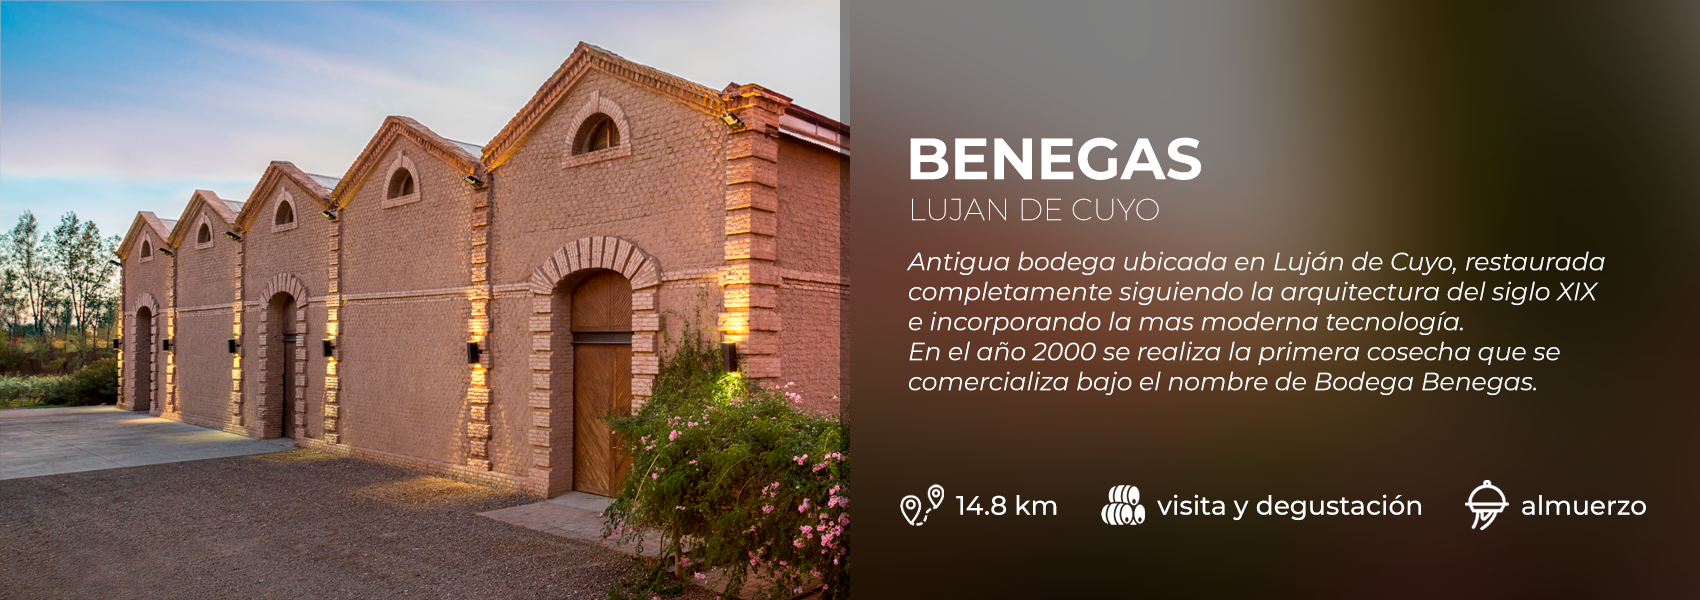
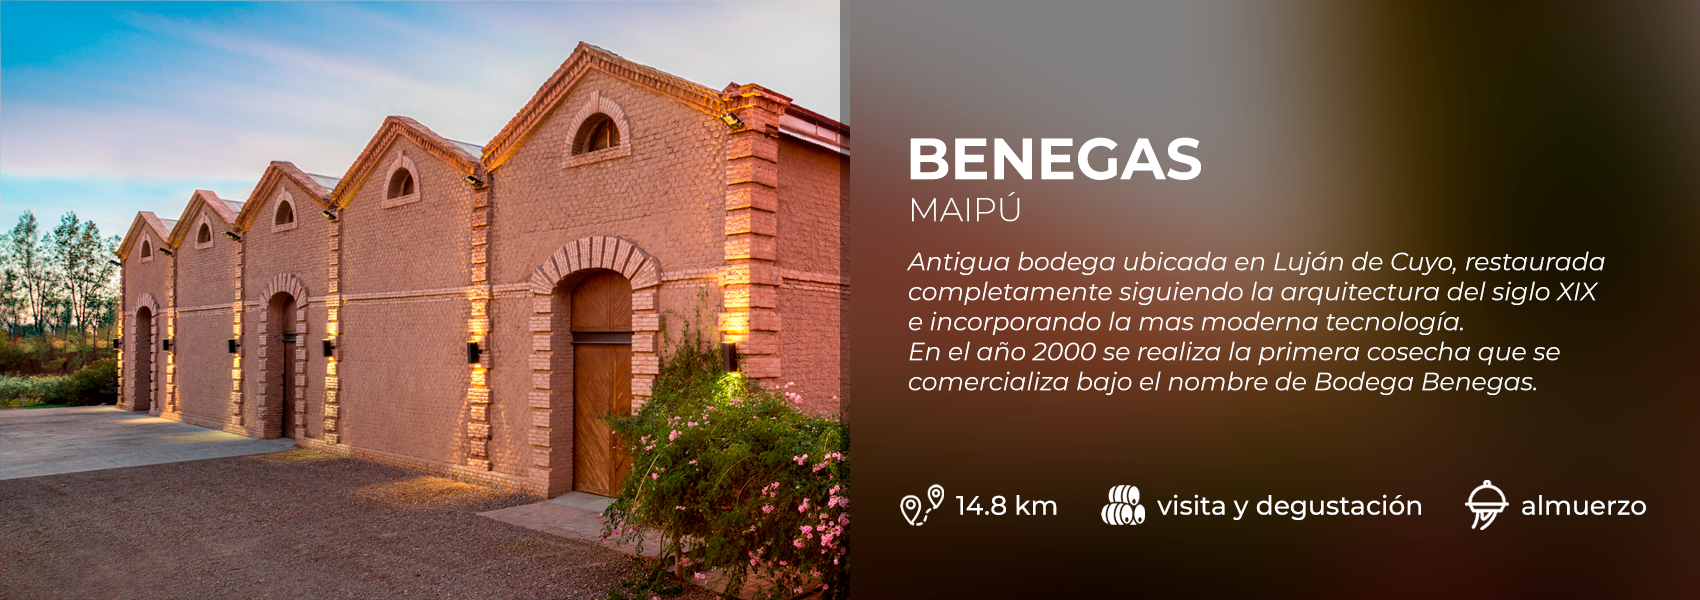
actualizaciones

diff --git a/templates/tips-para-organizar-un-tour-de-bodegas-en-mendoza.html b/templates/tips-para-organizar-un-tour-de-bodegas-en-mendoza.html
@@ -1,0 +1,140 @@
+<!DOCTYPE html>
+<html lang="en">
+<head>
+    <meta charset="UTF-8">
+    <meta name="viewport" content="width=device-width, initial-scale=1.0">
+    <link rel="stylesheet" href="/static/css/styles.css">
+    <link rel="preconnect" href="https://fonts.googleapis.com">
+    <link rel="preconnect" href="https://fonts.gstatic.com" crossorigin>
+    <link href="https://fonts.googleapis.com/css2?family=Montserrat:ital,wght@0,100..900;1,100..900&display=swap"
+        rel="stylesheet">
+    <link href="https://cdn.jsdelivr.net/npm/bootstrap@5.3.3/dist/css/bootstrap.min.css" rel="stylesheet" integrity="sha384-QWTKZyjpPEjISv5WaRU9OFeRpok6YctnYmDr5pNlyT2bRjXh0JMhjY6hW+ALEwIH" crossorigin="anonymous">
+    <title>Experiencias de Vino en Mendoza | Tours de Bodegas y Más</title>
+</head>
+<body>
+  <nav class="navbar navbar-expand-lg bg-body-tertiary montserrat-uniquifier">
+    <div class="container-fluid">
+      <!-- Botón de menú hamburguesa -->
+      <button class="navbar-toggler" type="button" data-bs-toggle="collapse"
+        data-bs-target="#navbarSupportedContent-bodegas" aria-controls="navbarSupportedContent-bodegas"
+        aria-expanded="false" aria-label="Toggle navigation">
+        <span class="navbar-toggler-icon"></span>
+      </button>
+
+      <!-- Logo centrado en móvil -->
+      <a href="/index.html" class="navbar-brand mx-auto d-lg-none">
+        <img class="brand-logo" src="/static/img/logo.png" alt="Logo">
+      </a>
+
+      <!-- Logo para desktop (mantén el logo a la izquierda) -->
+      <a href="/index.html" class="d-none d-lg-block ps-3 position-absolute start-0 top-50 translate-middle-y ps-3">
+        <img class="brand-logo" src="/static/img/logo.png" alt="Logo">
+      </a>
+
+      <!-- Menú centrado (sin considerar el logo) -->
+      <div class="collapse navbar-collapse" id="navbarSupportedContent-bodegas">
+        <ul class="navbar-nav mx-auto mb-2 mb-lg-0 text-center">
+          <li class="nav-item">
+            <a class="nav-link active" aria-current="page" href="/index.html">Inicio</a>
+          </li>
+          <li class="nav-item">
+            <a class="nav-link" href="#seccion-1">Tours</a>
+          </li>
+          <li class="nav-item">
+            <a class="nav-link" href="/templates/nosotros.html">Nosotros</a>
+          </li>
+          <li class="nav-item">
+            <a class="nav-link" href="/templates/bodegas.html">Bodegas</a>
+          </li>
+          <li class="nav-item">
+            <a class="nav-link" href="/templates/blogs.html">Blogs</a>
+          </li>
+          <li class="nav-item">
+            <a class="nav-link" href="/templates/faq.html">FAQ</a>
+          </li>
+        </ul>
+      </div>
+    </div>
+  </nav>
+  <div class="container py-4">
+    <div class="row align-items-center">
+      <!-- Columna izquierda: Texto -->
+      <div class="col-md-6">
+        <h1 class="text-start text-center titulos-blogs">Tips para organizar un tour de bodegas en Mendoza</h1>
+      </div>
+      <!-- Columna derecha: Imagen -->
+      <div class="col-md-6 text-center">
+        <img src="/static/img/tips-para-organizar-un-tour-de-bodegas.jpg" alt="Tips para organizar un tour" class="img-fluid">
+      </div>
+    </div>
+  </div>
+  <div class="container">
+    <p>Viajar a Mendoza y recorrer bodegas puede ser el plan soñado para un wine lover o para quien quiere unos días de relax en lo que denominamos “Disney para adultos”, pero puede no ser tan sencillo como se cree, por lo cual vamos a darte algunos tips para que sea el viaje soñado.</p>
+  <p class="mt-4"><strong>1) Planficar.</strong> Es muy importante planificar con tiempo este tour, seleccionar bodegas, zonas, almuerzos, prestadores, alojamiento. Toda bodega seria requiere reservas previas, las salas de degustaciones tienen capacidad limitada, 8, 10 o 12 personas, y las bodegas tienen tres 0 cuatro turnos diarios, cuando se llena el cupo de reservas no hay mas disponibilidad. No existe ir a la puerta de la bodega sin reserva e intentar entrar, ni a visitarla, ni a probar vinos, ni siquiera a comprar, Sin reserva no se entra y lo ideal es gestionar reservas treinta días antes.</p>
+  <p class="mt-4"><strong>2) ¿Dónde ir?</strong> En Mendoza hay tres zonas de enoturismo, Luján de Cuyo, Maipú y Valle de Uco. Lo razonable es no ir de una zona a otra en el mismo día, se pierde mucho tiempo yendo y viviendo y se le quita a las bodegas y degustaciones, también hay que atender que en cada zona las distancias pueden ser muy grandes, a modo de ejemplo entre Zuccardi Piedra Infinita y Huentala Wines hay una hora y cuarto de ruta, y las dos están en el Valle de Uco, por lo cual contratar a alguien que conozca y dejarse asesorar es una buena decisión.</p>
+  <p class="mt-4"><strong>3) ¿Cómo es un día de bodegas?</strong> El plan estándar de un día de tour es visitar y degustar en dos bodegas y almorzar en una tercera, aunque es muy recomendable reducir eso a una visita y degustación y un almuerzo; esto permitirá tener un día mas relajado sin tener que correr de bodega en bodega.</p>
+  <p class="mt-4"><strong>4) Escuchá a los que saben de enoturismo.</strong> Mendoza tiene mas de mil bodegas, la mayoría y sobre todo las mejores no son las mas conocidas, descree seriamente de las campañas de marketing en los medios tradicionales y de los premios del tipo: “Mejor restaurante de bodega del mundo”, “Mejor arquitectura”, “Mejor vista”, “Mejor chef”, los buenos de verdad no compran premios para luego pagar notas en La Nación o similares.</p>
+  <p class="mt-4"><strong>5) Horarios y Cena.</strong> Tené muy en cuenta que las bodegas abren, salvo excepciones, de 10:00 a 17:00, no hay visitas a una bodega a la tarde o cena en restaurantes de bodegas. Por otra parte habitualmente no se cena cuando se almorzó en una bodega, ese almuerzo es muy abundante con muchísimo vino y termina alrededor de las 17:00 hs, tener prevista una reserva para cenar en restaurante es casi un desperdicio, mejor una caminata, algo frugal y a la cama, que al otro día vamos a seguir bodegueando.</p>
+  <p class="mt-4"><strong>6) ¿Qué busco?</strong> En este punto se requiere sinceridad, no es necesario presumir de ser un gran conocedor de vinos si no lo sos, es mejor venir a aprender, a Mendoza se puede venir a pasar un finde soñado, a probar los mejores vinos, a sacarse las mejores fotos glamorosas, a comer como en casi ningún lado. Se claro con vos mismo y con quien te ayude, caso contrario es probable que te pierdas lo que buscás, si viene un grupo de amigos o amigas que quieren diversión, no es lo mismo que si viene un matrimonio a festejar sus bodas de plata, en el primer caso buscaremos bodegas con onda, fiesteras digamos, en el segundo intimidad, elegancia y romanticismo. Y si nos llega el conocedor de vinos, vamos por los vinos, independientemente de las vistas, la arquitectura o cualquier cosa, solo elegiremos bodegas por lo que hay dentro de la botella.</p>
+  <p class="mt-4"><strong>7) ¿Cómo? </strong> Las bodegas de Mendoza no están en la ciudad, están en zonas rurales donde no funciona algún eficiente sistema de transporte público, De acuerdo al bolsillo hay muchas y diferentes alternativas, la que no es ni siquiera analizable es ir en tu propio vehículo o de alquiler a recorrer bodegas, primero por responsabilidad, vas a beber mas de lo normal, luego por los controles de alcoholemia de la Policía de Mendoza, las multas son muy, pero muy caras e incluyen secuestro del vehículo, de la documentación y hasta la detención del infractor.
+    Las opciones van desde un tour regular con alguna agencia tradicional, en la cual salís de la agencia en un ómnibus o minibús con un grupo de personas y recorren las bodegas que esa agencia tiene pautadas, hasta un tour privado con un automóvil con chofer y guía bilingüe y experto donde vas a las bodegas que hayas elegidos y casi todas las visitas las hagas en privado en una sala exclusiva para vos y quien te acompañe, a esto último nos dedicamos en Discovery Wines Mendoza.</p>
+  <p class="mt-4"><strong>8) Niños y bodegas:</strong> Si bien puede organizarse es absolutamente no recomendable, un viaje de bodegas a Mendoza es un plan de adultos para una escapada de relax, en modo alguno es un plan familiar, no la pasarán bien ni los niños ni los padres, el aburrimiento de los menores será tremendo, aunque atente contra nuestra posibilidad de venta, debo decir la verdad y lo digo desde la experiencia, si no pueden dejar a los niños dos o tres días, espérenlos y vengan a tomar vinos con ellos cuando crezcan, yo que tengo la suerte de compartir vinos y este proyecto de enoturismo con mis hijos, les digo que degustar un vino con ellos es una experiencia muy cercana a la felicidad plena.</p>
+  </div>
+  
+  <div class="container">
+    <p class="mt-4 text-italic">Autor: Hugo Laricchia</p>
+  </div>
+  
+      <footer class="text-white py-4">
+        <div class="container">
+          <div class="row">
+            <!-- Columna 1: Información de contacto -->
+            <div class="col-md-4">
+              <h5 class="montserrat-uniquifier3">DISCOVERY WINE</h5>
+              <ul class="list-unstyled">
+                <li>Discovery Wine Mendoza™ Somos una empresa dedicada a la planificación y ejecución de tours privados “a medida” por los viñedos y bodegas de Mendoza, Argentina. En el corazón de una de las capitales del vino reconocidas a nivel mundial, ofrecemos experiencias personalizadas que se adaptan a tus gustos individuales.</li>
+              </ul>
+            </div>
+            <!-- Columna 2: Enlaces útiles -->
+            <div class="col-md-4">
+              <h5 class="montserrat-uniquifier3">ENCUENTRA TU TOUR</h5>
+              <div class="d-flex justify-content-between">
+                <ul class="list-unstyled">
+                  <li><a href="/templates/maipu.html" class="text-reset">Bodegas Maipú</a></li>
+              <li><a href="/templates/lujan_de_cuyo.html" class="text-reset">Bodegas Lujan de Cuyo</a></li>
+              <li><a href="/templates/valle_de_uco.html" class="text-reset">Bodegas Valle de Uco</a></li>
+              <li><a href="/templates/alta_montana.html" class="text-reset">Alta Montaña</a></li>
+            </ul>
+            <ul class="list-unstyled">
+              <li><a href="/templates/4x4_experience.html" class="text-reset">4x4 Experience</a></li>
+              <li><a href="/templates/city_tour.html" class="text-reset">City Tour</a></li>
+              <li><a href="/templates/cooking_class.html" class="text-reset">Cooking Class</a></li>
+              <li><a href="/templates/blending_experience.html" class="text-reset">Blending Experience</a></li>
+                </ul>
+              </div>
+            </div>
+            
+            <!-- Columna 3: Redes sociales -->
+            <div class="col-md-4">
+              <h5 class="montserrat-uniquifier3">INFORMACIÓN Y CONTACTO</h5>
+              <div class="d-flex justify-content-center">
+                <ul class="list-unstyled">
+                  <li><a href="#" class="text-reset">Por qué Discovery Wine</a></li>
+                  <li><a href="#" class="text-reset">Opiniones</a></li>
+                  <li><a href="#" class="text-reset">Blog</a></li>
+                  <li><a href="#" class="text-reset">Envíanos un correo</a></li>
+                </ul>
+              </div>
+            </div>
+          </div>
+        </div>
+        <div class="text-center mt-3">
+          <img src="/static/img/facebook-favicon.png" alt="">
+          <img src="/static/img/tripadvisor-favicon.png" alt="">
+          <img src="/static/img/instagram-favicon.png" alt="">
+        </div>
+      </footer>
+<!-- bootstrap -->
+<script src="https://cdn.jsdelivr.net/npm/bootstrap@5.3.3/dist/js/bootstrap.bundle.min.js" integrity="sha384-YvpcrYf0tY3lHB60NNkmXc5s9fDVZLESaAA55NDzOxhy9GkcIdslK1eN7N6jIeHz" crossorigin="anonymous"></script>      
+</body>
+</html>

diff --git a/templates/blending_experience.html b/templates/blending_experience.html
@@ -21,7 +21,7 @@
 </head>
 
 <body class="row ">
-  <nav class="navbar navbar-expand-lg bg-body-tertiary  montserrat-uniquifier">
+  <nav class="navbar navbar-expand-lg bg-black navbar-dark montserrat-uniquifier">
     <div class="container-fluid">
       <!-- Botón de menú hamburguesa -->
       <button class="navbar-toggler" type="button" data-bs-toggle="collapse"
@@ -29,18 +29,18 @@
         aria-expanded="false" aria-label="Toggle navigation">
         <span class="navbar-toggler-icon"></span>
       </button>
-
+  
       <!-- Logo centrado en móvil -->
       <a href="/index.html" class="navbar-brand mx-auto d-lg-none">
-        <img class="brand-logo" src="/static/img/logo.png" alt="Logo">
+        <img class="brand-logo" src="/static/img/BASE.png" alt="Logo">
       </a>
-
-      <!-- Logo para desktop (mantén el logo a la izquierda) -->
-      <a href="/index.html" class="d-none d-lg-block ps-3 position-absolute start-0 top-50 translate-middle-y ps-3">
-        <img class="brand-logo" src="/static/img/logo.png" alt="Logo">
+  
+      <!-- Logo para desktop -->
+      <a href="/index.html" class="d-none d-lg-block ps-3 position-absolute start-0 top-50 translate-middle-y">
+        <img class="brand-logo" src="/static/img/BASE.png" alt="Logo">
       </a>
-
-      <!-- Menú centrado (sin considerar el logo) -->
+  
+      <!-- Menú centrado -->
       <div class="collapse navbar-collapse" id="navbarSupportedContent-bodegas">
         <ul class="navbar-nav mx-auto mb-2 mb-lg-0 text-center">
           <li class="nav-item">
@@ -131,7 +131,7 @@
   </div>
 
 
-  <div class="container">
+  <div class="container mb-5">
     <div class="row justify-content-center">
       <div class="col-12" style="max-width: 80%; width: 100%; padding: 0;">
         <div class="row bg-danger p-4 justify-content-center">
@@ -151,6 +151,15 @@
       </div>
     </div>
   </div>
+
+  <div class="d-flex justify-content-center align-items-center mt-5">
+    <p class="text-center text-italic">
+      Definir un blend, se trata del momento de mayor creatividad en el arte de hacer vino, <br>es la alquimia que ilumina el trabajo de años en el viñedo y en la bodega. <br>
+      Cuando se piensa en el blend se está buscando a aquel vino ideal, soñado;<br> la experiencia gustativa de nuestras vidas y que perduran en la memoria. <br>
+      Nacerá entonces un individuo único, el vino que reflejará la personalidad del autor <br>del blend, un vino con alma, un vino que cuente una historia.
+    </p>
+  </div>
+  
   
   
   

diff --git a/templates/nosotros.html b/templates/nosotros.html
@@ -15,7 +15,7 @@
 </head>
 
 <body>
-  <nav class="navbar navbar-expand-lg bg-body-tertiary montserrat-uniquifier">
+  <nav class="navbar navbar-expand-lg bg-black navbar-dark montserrat-uniquifier">
     <div class="container-fluid">
       <!-- Botón de menú hamburguesa -->
       <button class="navbar-toggler" type="button" data-bs-toggle="collapse"
@@ -23,18 +23,18 @@
         aria-expanded="false" aria-label="Toggle navigation">
         <span class="navbar-toggler-icon"></span>
       </button>
-
+  
       <!-- Logo centrado en móvil -->
       <a href="/index.html" class="navbar-brand mx-auto d-lg-none">
-        <img class="brand-logo" src="/static/img/logo.png" alt="Logo">
+        <img class="brand-logo" src="/static/img/BASE.png" alt="Logo">
       </a>
-
-      <!-- Logo para desktop (mantén el logo a la izquierda) -->
-      <a href="/index.html" class="d-none d-lg-block ps-3 position-absolute start-0 top-50 translate-middle-y ps-3">
-        <img class="brand-logo" src="/static/img/logo.png" alt="Logo">
+  
+      <!-- Logo para desktop -->
+      <a href="/index.html" class="d-none d-lg-block ps-3 position-absolute start-0 top-50 translate-middle-y">
+        <img class="brand-logo" src="/static/img/BASE.png" alt="Logo">
       </a>
-
-      <!-- Menú centrado (sin considerar el logo) -->
+  
+      <!-- Menú centrado -->
       <div class="collapse navbar-collapse" id="navbarSupportedContent-bodegas">
         <ul class="navbar-nav mx-auto mb-2 mb-lg-0 text-center">
           <li class="nav-item">
@@ -59,6 +59,7 @@
       </div>
     </div>
   </nav>
+  
 
   <div class="position-relative text-white">
     <!-- Imagen de fondo -->

diff --git a/templates/blogs.html b/templates/blogs.html
@@ -59,7 +59,9 @@
       <div class="row display-flex justify-content-center align-items-center">
         <!-- CARD 1 -->
         <div class="card" style="width: 18rem;">
-          <img src="/static/img/blog1.jpg" class="card-img-top" alt="...">
+          <a href="/templates/tips-para-organizar-un-tour-de-bodegas-en-mendoza.html">
+            <img src="/static/img/blog1.jpg" class="card-img-top" alt="...">
+          </a>
           <div class="card-body">
             <p class="blog-title">Tips para organizar un tour de bodegas en Mendoza
             </p>

diff --git a/static/css/styles.css b/static/css/styles.css
@@ -36,6 +36,10 @@ font-style: normal;
 
 /*----------------------------------------------------------- BODY---------------------------------------------- */
 
+.bg-black {
+  background-color: rgba(0, 0, 0, 0.9); /* Negro con transparencia */
+}
+
 body {
 background-color: var(--bg-color);
 color: var(--text-color);
@@ -218,6 +222,10 @@ justify-content: center;
 text-align: center;
 margin-top: 1.5rem;
 font-size: 1.8rem;
+}
+
+.titulos-blogs{
+  color: #be0048;
 }
 
 h2 {

diff --git a/templates/bod_lujan_de_cuyo.html b/templates/bod_lujan_de_cuyo.html
@@ -138,12 +138,6 @@
                 <img class="img-fluid rounded-3" src="/static/img/05-catena-zapata2.png" alt="Imagen de La Azul">
             </div>
         </div>
-
-        <div class="row justify-content-center mb-4">
-            <div class="col-12 col-md-8">
-                <img class="img-fluid rounded-3" src="/static/img/06-benegas.png" alt="Imagen de La Azul">
-            </div>
-        </div>
     </div>
 
     <!-- whatsapp -->

diff --git a/templates/bod_maipu.html b/templates/bod_maipu.html
@@ -130,6 +130,12 @@
         <img class="img-fluid rounded-3" src="/static/img/10-casa-vigil.png" alt="Imagen de Alfa Crux">
       </div>
     </div>
+
+    <div class="row justify-content-center mb-4">
+      <div class="col-12 col-md-8">
+          <img class="img-fluid rounded-3" src="/static/img/06-benegas.png" alt="Imagen de La Azul">
+      </div>
+  </div>
   </div>
   
   <!-- whatsapp -->
